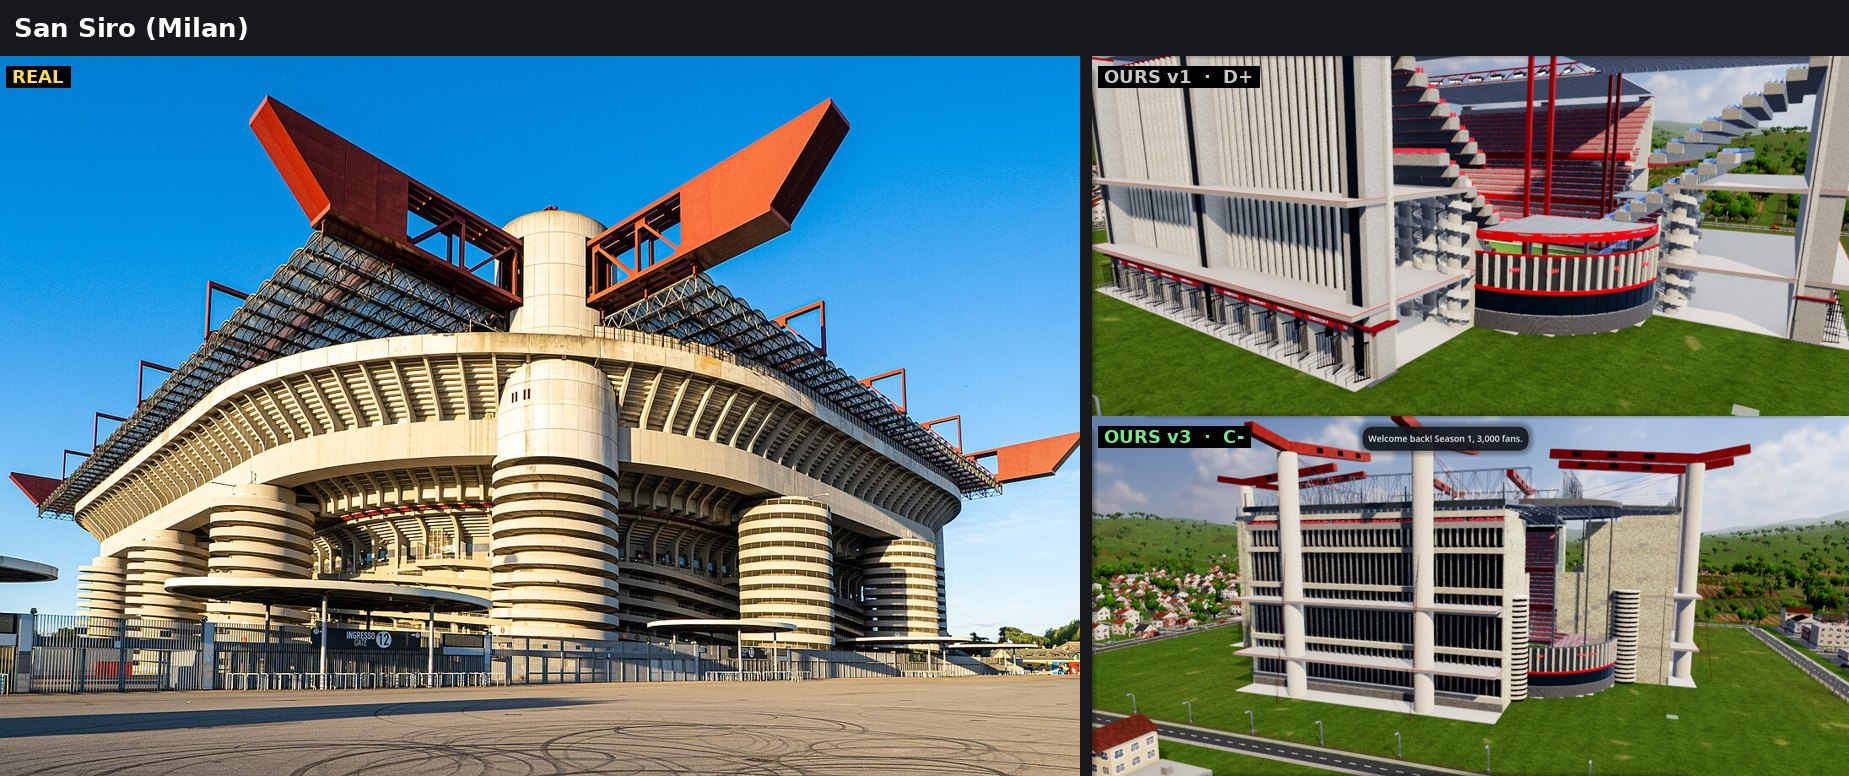
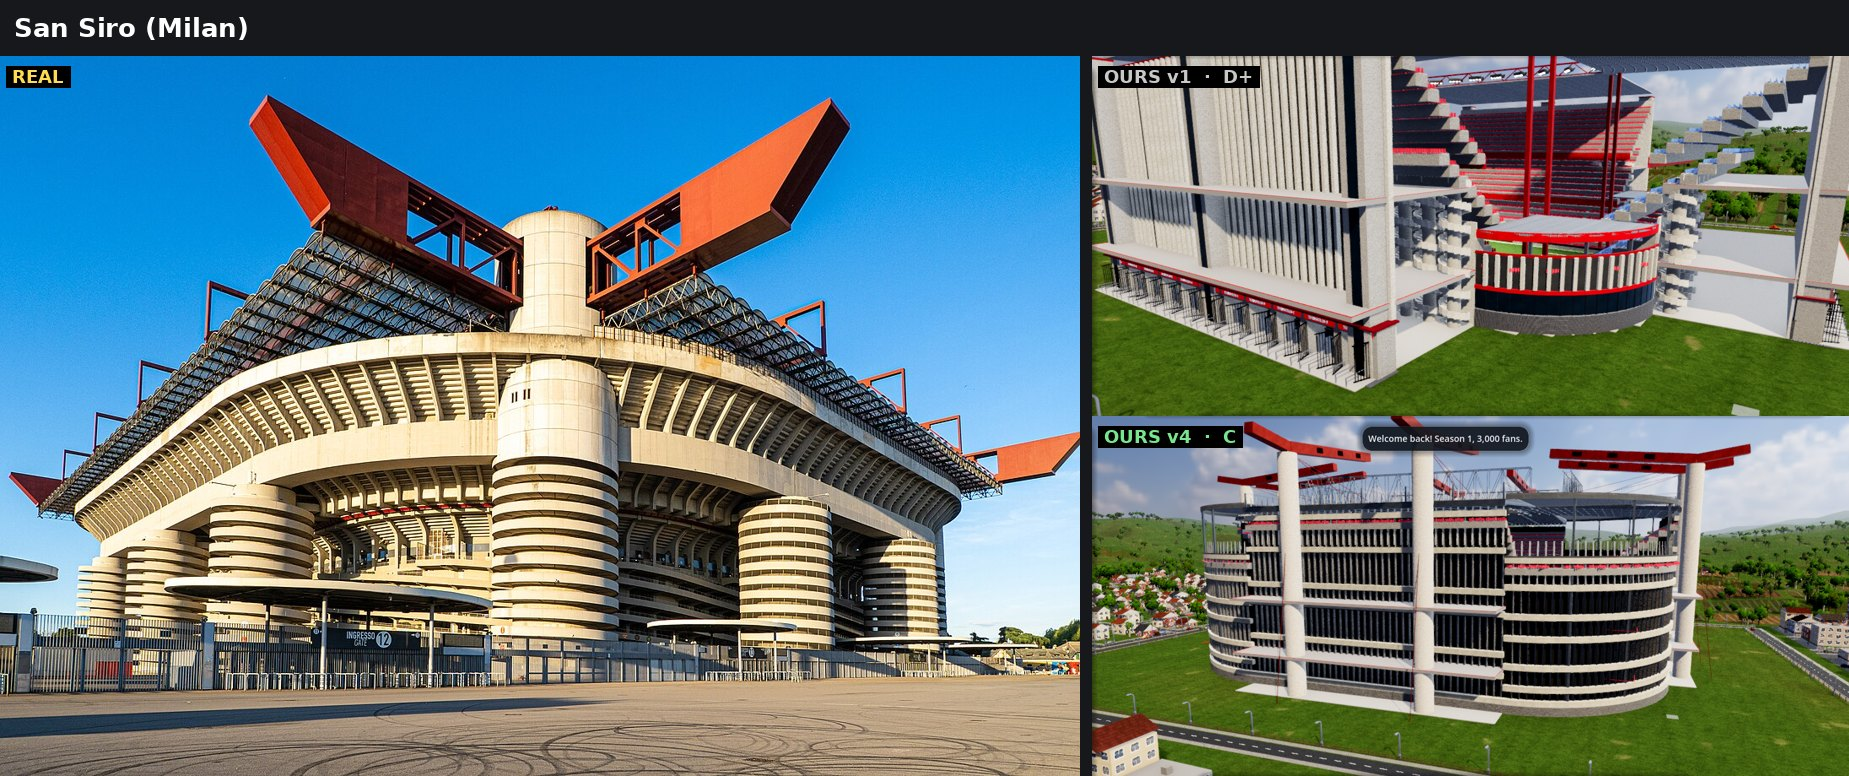
San Siro v4: tiered rounded corners with the open-tier bands wrapping round
Claude-Session: https://claude.ai/code/session_019GL9DZKUN4T6LdW8KYydwH

Changed region(s): [[0.8015, 0.6186, 0.9248, 0.9278], [0.6474, 0.6495, 0.6782, 0.8969], [0.6474, 0.5567, 0.6782, 0.5876]]

diff --git a/RECREATION_CHALLENGE.md b/RECREATION_CHALLENGE.md
@@ -14,7 +14,7 @@ sides: `docs/recreation/compare/`.
 | Signal Iduna Park | D+ | C+ | Yellow A-frame pylons outside the roof, one continuous roof ring, rounded corners, white steel trusses on top, glazed facade with the yellow band | Pylons still slimmer and fewer than the real 8; roof sheeting reads as fine noise from the air; the real roof opening is pitch-sized, ours is smaller; seats should be black with yellow blocks (seat patterns exist; now used in v3); no Borusseum/forecourt |
 | Anfield | C- | C | White roofs with the long top trusses, the tall Main Stand, glazed and closed roof ends, player banners | The Main Stand's roof should fold down at the ends (a cranked roof shape); its white cladding reads as brick in our closed ends (paint choice); the real ground is a tight rectangle with square corners and no roof ring; terraced streets right up to it |
 | Old Trafford | C | C+ (v3) | White space-frame roof over a continuous ring, red cladding; v3: 3-tier corners make one continuous bowl (99,750 places), corner walls take the stand's paint | Ours is a rounded oval where the real one is a rectangle with squarer corners; the roof covers too much (real: pitch clearly visible); the grey bays between red panels; the glass corner atrium (now a piece) |
-| San Siro | D+ | C- (v3: see below) | Ramp towers now stand outside the bowl as banded drums; upper tiers close their ends | Read as a tall box of vertical fins, not the low curved stack of open tiers; the giant red box girders; an oval plan. v3 adds the "open tiers" facade and box-girder roof supports |
+| San Siro | D+ | C (v4) | Ramp towers now stand outside the bowl as banded drums; upper tiers close their ends | Read as a tall box of vertical fins, not the low curved stack of open tiers; the giant red box girders; an oval plan. v3 added the "open tiers" facade and box-girder roof supports; v4 has 3-tier rounded corners with the bands wrapping round, so the bowl reads as one curved stack. Still missing: the ramp drums read too small, the real girders cross over the roof diagonally, the low wide proportions |
 
 What round 2 added to the game (all player tools, not special cases):
 A-frame and box-girder pylons with their own paint; roof ends open / closed /
